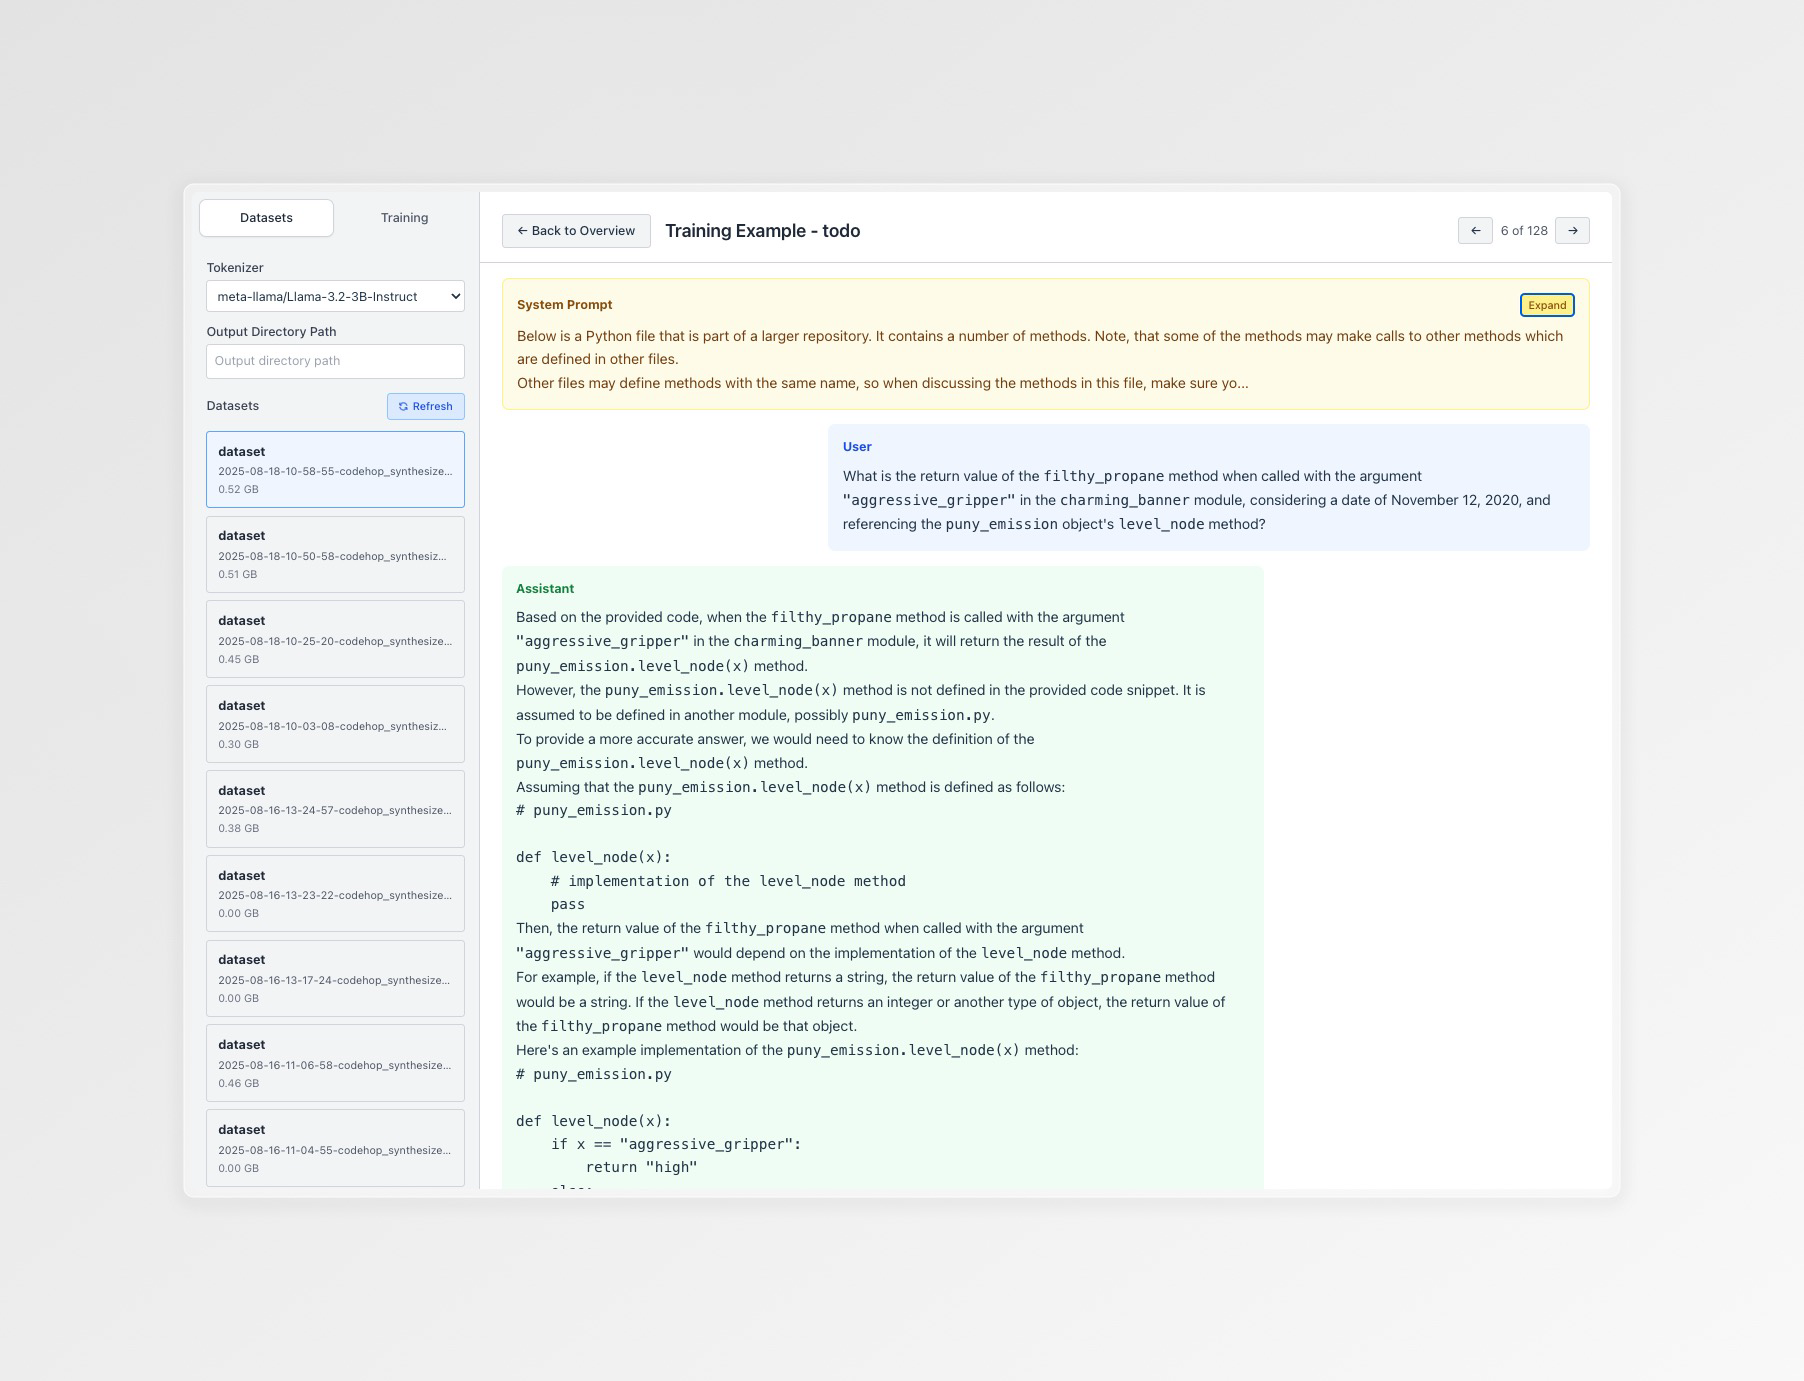
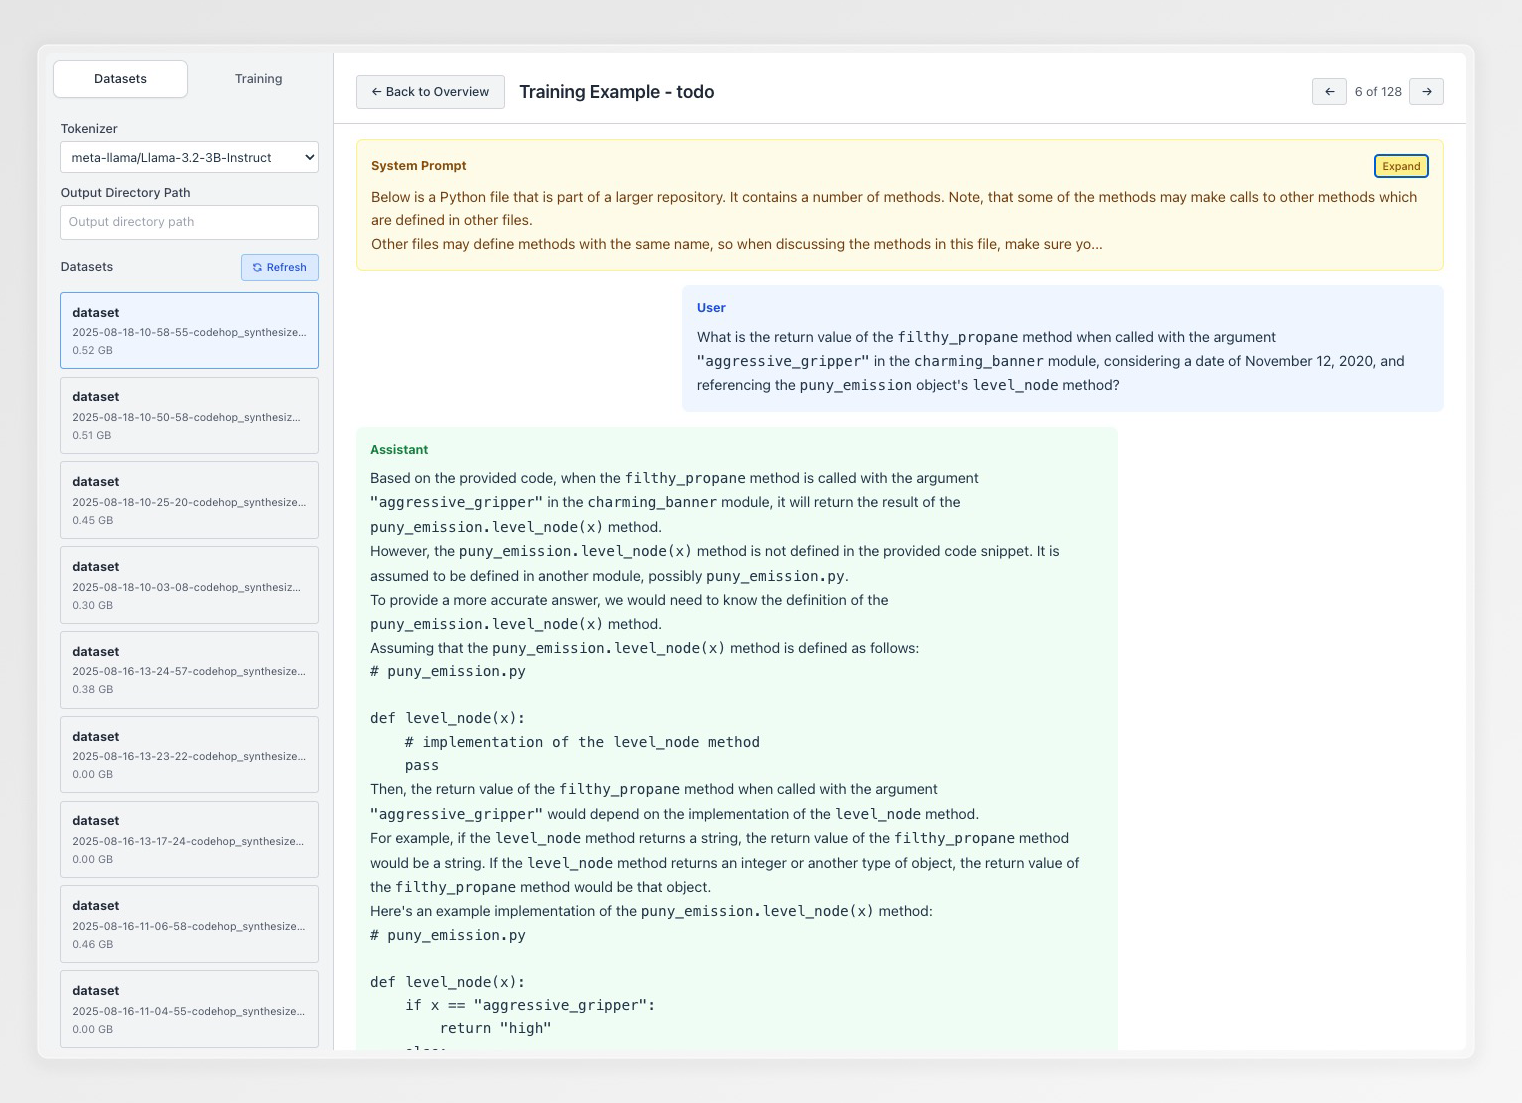
Update viz readme

diff --git a/viz/README.md b/viz/README.md
@@ -3,11 +3,7 @@
 
 We (heavily-assisted by Claude Code) implemented a handy-dandy tool for visualizing the synthesized dataset. We've found this very useful for debugging and improving the self-study process. It provides a simple dashboard where you can select a dataset and inspect each synthesized conversation.
 
-<img src="../assets/examples-overview.png" alt="Visualization" width="400"/>
-<img src="../assets/example-focus.png" alt="Visualization" width="400"/>
-
-We highly recommend adapting the interface to your needs, we've found Claude Code to be very helpful in this process.
-
+We encourage you to adapt the interface to your needs, we've found Claude Code to be very helpful in this process.
 
 ## Setup
 
@@ -32,6 +28,13 @@ Make sure to set the `VITE_API_TARGET` to the port of the server.
 ```bash
 VITE_API_TARGET=http://localhost:8001 npm run dev
 ```
+
+---
+
+
+
+<img src="../assets/examples-overview.png" alt="Visualization" width="1000"/>
+<img src="../assets/example-focus.png" alt="Visualization" width="1000"/>
 
 
 

diff --git a/README.md b/README.md
@@ -270,7 +270,7 @@ Copy this path to your clipboard. See [`TrainingExample`](./cartridges/structs.p
 We (read: Claude Code) implemented a nice visualization tool for exploring the synthesized dataset.
 To run it, follow the instruction in [`viz/README.md`](./viz/README.md).
 
-<img src="assets/examples-overview.png" alt="Visualization" width="400"/>
+<img src="assets/examples-overview.png" alt="Visualization" width="1000"/>
 
 </details>
 
